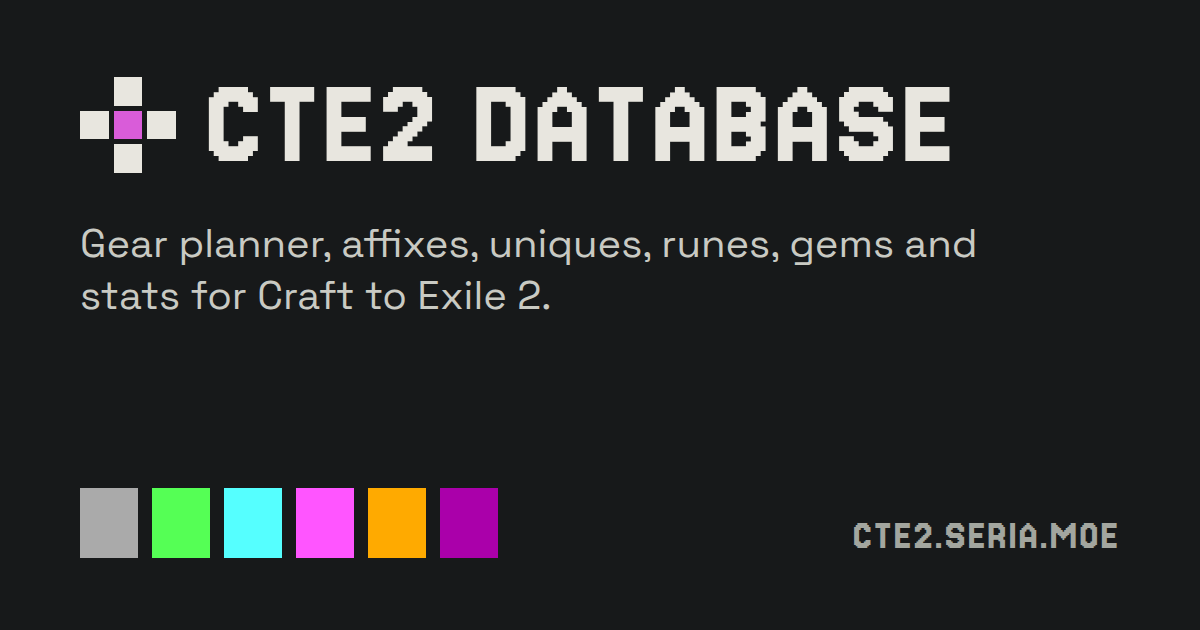
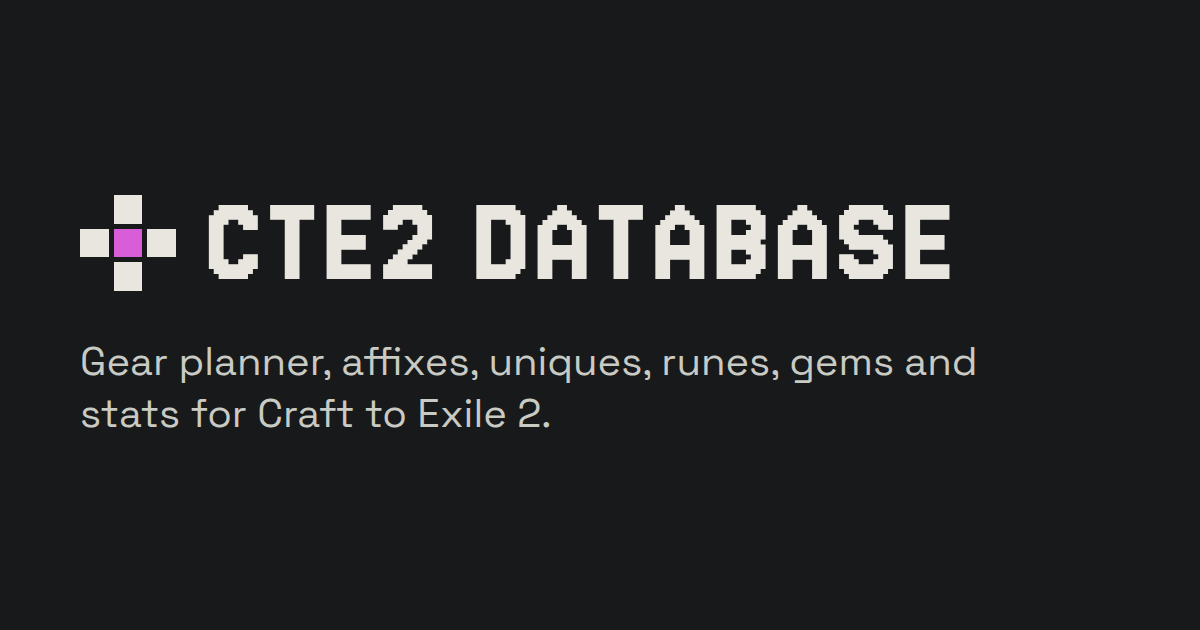
feat(seo): simplify link preview image

diff --git a/scripts/og.html b/scripts/og.html
@@ -8,13 +8,9 @@
     <link href="https://fonts.googleapis.com/css2?family=Jersey+15&family=Space+Grotesk:wght@400;500&display=block" rel="stylesheet" />
     <style>
       * { box-sizing: border-box; margin: 0; }
-      body { width: 1200px; height: 630px; padding: 72px 80px; background: #17191a; color: #e8e6df; font-family: 'Space Grotesk', sans-serif; display: flex; flex-direction: column; }
+      body { width: 1200px; height: 630px; padding: 72px 80px; background: #17191a; color: #e8e6df; font-family: 'Space Grotesk', sans-serif; display: flex; flex-direction: column; justify-content: center; }
       .brand { display: flex; align-items: center; gap: 28px; font: 400 132px/0.8 'Jersey 15', monospace; letter-spacing: 0.02em; text-transform: uppercase; }
       p { margin-top: 40px; max-width: 900px; font-size: 40px; line-height: 1.3; color: #c9cac3; }
-      .row { margin-top: auto; display: flex; align-items: flex-end; justify-content: space-between; }
-      .swatches { display: flex; gap: 14px; }
-      .swatches i { width: 58px; height: 70px; }
-      .url { font: 400 44px/1 'Jersey 15', monospace; letter-spacing: 0.04em; text-transform: uppercase; color: #a3a69f; }
     </style>
   </head>
   <body>
@@ -26,12 +22,5 @@
       CTE2 Database
     </div>
     <p>Gear planner, affixes, uniques, runes, gems and stats for Craft to Exile 2.</p>
-    <div class="row">
-      <div class="swatches">
-        <i style="background: #aaaaaa"></i><i style="background: #55ff55"></i><i style="background: #55ffff"></i>
-        <i style="background: #ff55ff"></i><i style="background: #ffaa00"></i><i style="background: #aa00aa"></i>
-      </div>
-      <div class="url">cte2.seria.moe</div>
-    </div>
   </body>
 </html>
